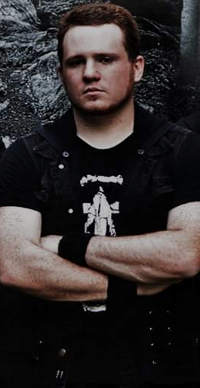
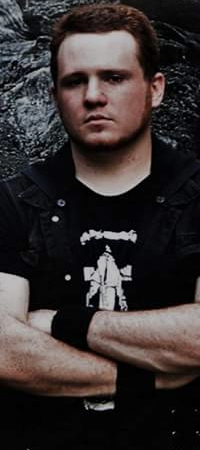
fixed bio scaling issues for responsiveness

diff --git a/about.html b/about.html
@@ -40,7 +40,7 @@
 					<b>Name:</b> Shaun L Weigle <br /><br />
 					<b>Role:</b> Bass Guitar <br /><br />
 					<b>From:</b> York Springs, PA <br /><br />
-					<b>Favorite Bands:</b> Kix, Rush, Yes, Scorpions, GnR, Ax7, more. <br /><br />
+					<b>Favorite Bands:</b> Kix, Rush, Yes, Scorpions, GnR,<br /> Ax7, more. <br /><br />
 					<b>Influences:</b> Mark Schenker, Geddy Lee, Chris Squire.	
 				</p>
 			</div>
@@ -50,8 +50,8 @@
 					<b>Name:</b> Kevin Kroushour <br /><br />
 					<b>Role:</b> Guitar/ Backup Vocals <br /><br />
 					<b>From:</b> East Berlin, PA <br /><br />
-					<b>Favorite Bands:</b> Bullet For My Valentine, Trivium, Issues, Breaking Benjamin, A Day To Remember, <br /><br /> Story of the Year, just to name a few. <br /><br />
-					<b>Influences:</b> Mark Tremonti, Adam Dutkiewicz, Kevin Skaff, Corey Beaulieu, Dan Jacobs
+					<b>Favorite Bands:</b> Bullet For My Valentine, Trivium,<br /> Issues, Breaking Benjamin, A Day To Remember, <br /> Story of the Year, just to name a few. <br /><br />
+					<b>Influences:</b> Mark Tremonti, Adam Dutkiewicz, Kevin Skaff,<br /> Corey Beaulieu, Dan Jacobs
 				</p>
 			</div>
 			<div class="bioSection">
@@ -60,7 +60,7 @@
 					<b>Name:</b> Ron Weigle <br /><br />
 					<b>Role:</b> Guitar/ Backup Vocals <br /><br />
 					<b>From:</b> York Springs, PA <br /><br />
-					<b>Favorite Bands:</b> Ozzy, Priest, Scorpions, GnR, Ax7, many more. <br /><br />
+					<b>Favorite Bands:</b> Ozzy, Priest, Scorpions, GnR,<br /> Ax7, many more. <br /><br />
 					<b>Influences:</b> Slash, Satriani, Synyster Gates
 				</p>
 			</div>
@@ -80,8 +80,8 @@
 					<b>Name:</b> Justin Weigle <br /><br />
 					<b>Role:</b> Drums/ Backup Vocals <br /><br />
 					<b>From:</b> York Springs, PA <br /><br />
-					<b>Favorite Bands:</b> A7x, Issues, SystemOAD, Blink-182, State Champs, With Confidence, etc <br /><br />
-					<b>Influences:</b> Jimmy "The Rev" Sullivan, Travis Barker, Evan Ambrosio
+					<b>Favorite Bands:</b> A7x, Issues, SystemOAD, Blink-182,<br /> State Champs, With Confidence, etc <br /><br />
+					<b>Influences:</b> Jimmy "The Rev" Sullivan, Travis Barker,<br /> Evan Ambrosio
 				</p>
 			</div>
 		</div>

diff --git a/CSS/about.css b/CSS/about.css
@@ -22,7 +22,6 @@
 }
 
 #shaunathan {
-	background-color:black;
 	position:absolute;
 	top:15%;
 	left:5%;
@@ -76,8 +75,29 @@
 }
 
 
-@media only screen and (max-width:770px) {
+@media only screen and (max-width:830px) {
 	.bioSection {
-		height:500px;
+		height:900px;
 	}
+	.bioSection img {
+		top:0;
+		right:20%;
+		max-width:80%;
+	}
+	#shaunathan {
+		top:50%;
+	}
+	#kevine {
+		top:48%;
+	}
+	#ocdopustenthackles {
+		top:50%;
+	}
+	#loueee {
+		top:50%;
+	}
+	#justine {
+		top:50%;
+	}
+
 }
